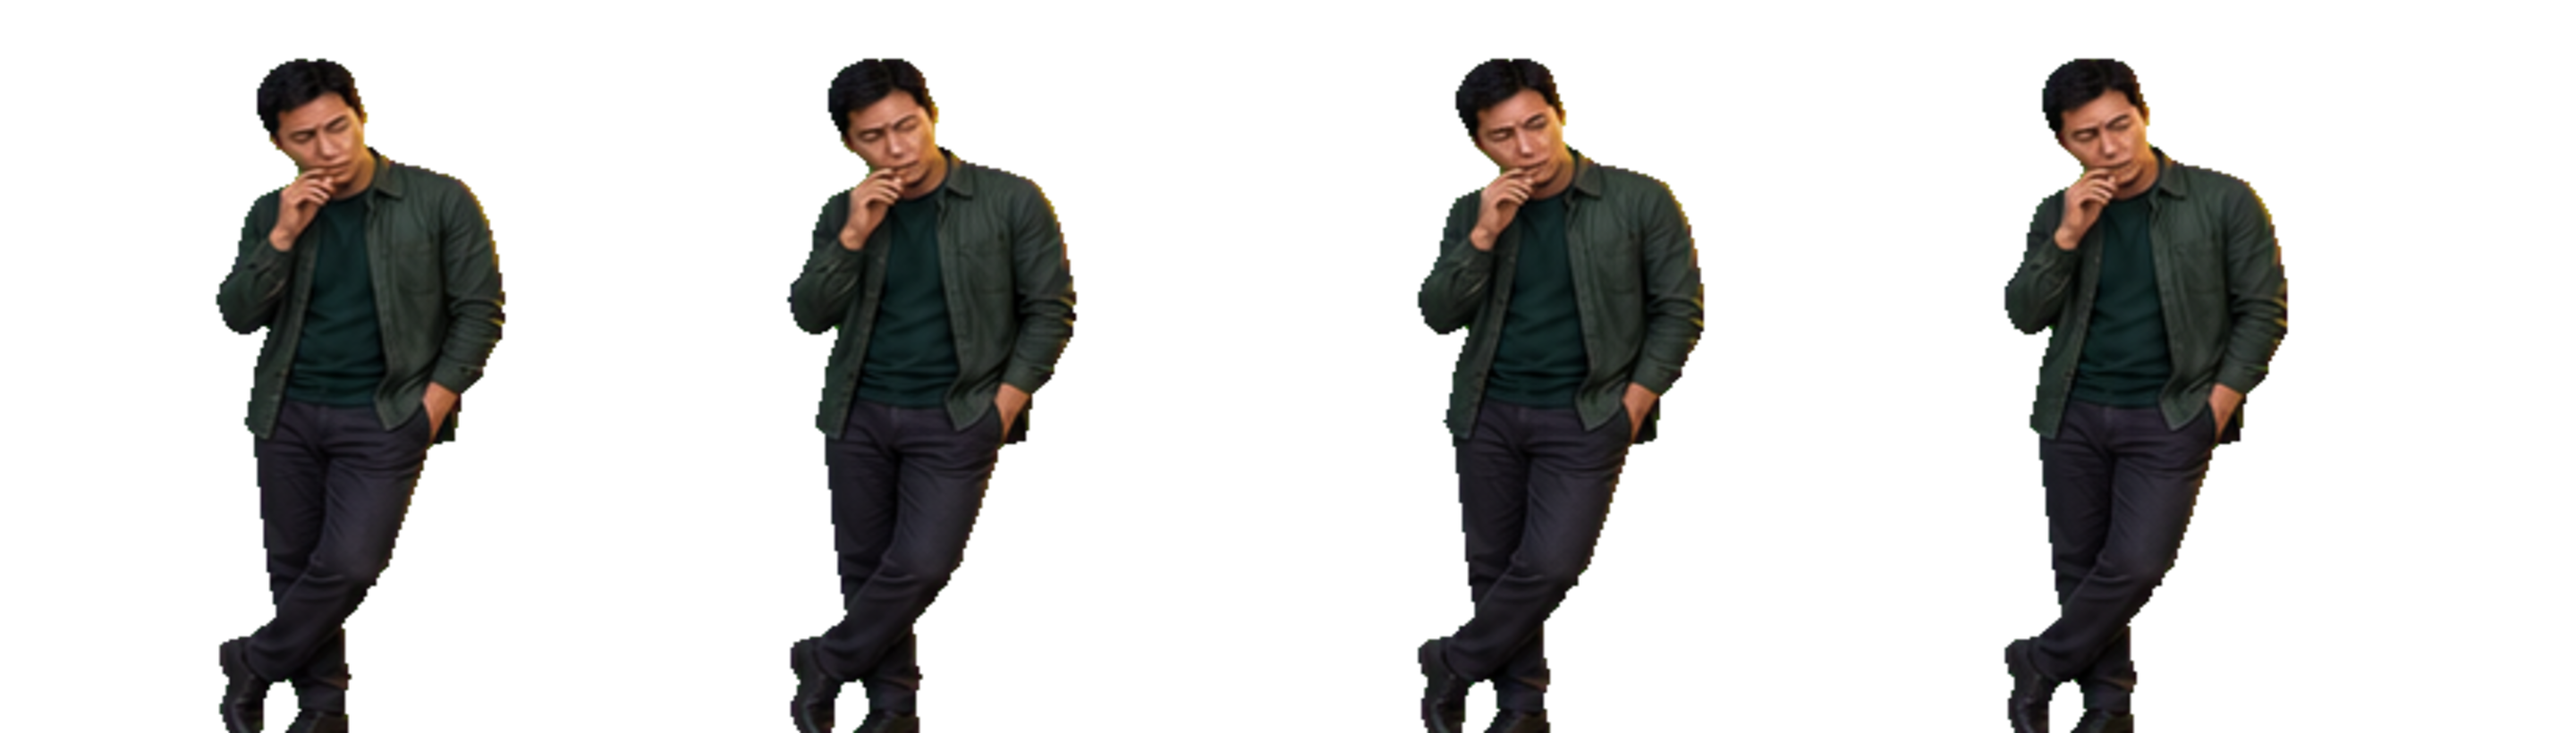
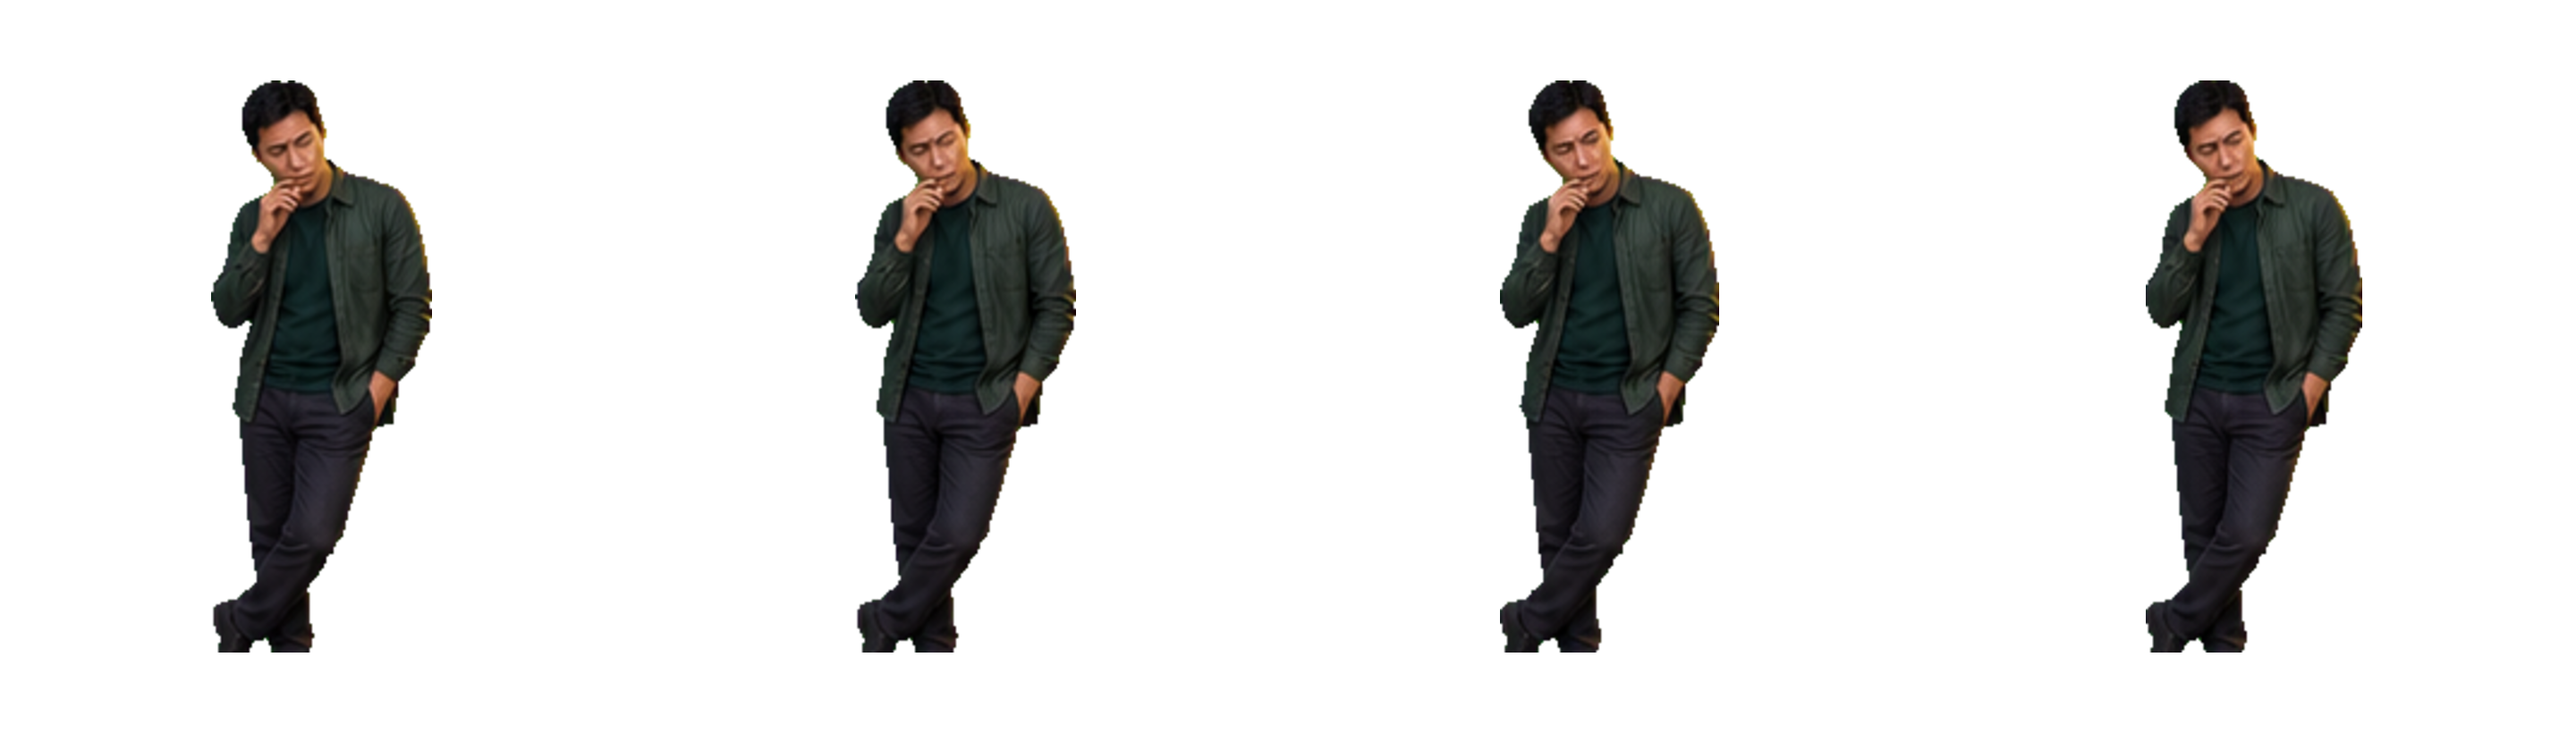
Fix rooftop protagonist clipping

diff --git a/src/game/scenes/rooftopScene.ts b/src/game/scenes/rooftopScene.ts
@@ -5,6 +5,8 @@ import { getOfficeProgress } from "../systems/progressSystem";
 
 const worldWidth = 1280;
 const worldHeight = 720;
+const protagonistX = 150;
+const protagonistY = 584;
 const characterStates = ["progress-0", "progress-1", "progress-2", "progress-3", "progress-4", "progress-5", "progress-6"] as const;
 type CharacterState = (typeof characterStates)[number];
 
@@ -320,9 +322,9 @@ export class RooftopScene extends Phaser.Scene {
     const state = this.getCharacterState();
     this.ensureCharacterAnimations();
     this.addCharacterContactShadows();
-    const sprite = this.add.sprite(160, 630, `trader-${state}`, 0).setDepth(24);
+    const sprite = this.add.sprite(protagonistX, protagonistY, `trader-${state}`, 0).setDepth(24);
     const progressIndex = this.getCharacterProgressIndex();
-    const stateScale = progressIndex === characterStates.length - 1 ? 0.44 : 0.46 * (1 + progressIndex * 0.004);
+    const stateScale = progressIndex === characterStates.length - 1 ? 0.34 : 0.35 * (1 + progressIndex * 0.004);
     sprite.setScale(stateScale);
     sprite.setOrigin(0.5, 0.98);
     sprite.setTint(0xa7a08a);
@@ -352,9 +354,9 @@ export class RooftopScene extends Phaser.Scene {
   }
 
   private addCharacterContactShadows(): void {
-    this.add.ellipse(160, 630, 116, 18, 0x03100c, 0.24).setDepth(23).setAngle(-7);
-    this.add.ellipse(118, 640, 54, 9, 0x03100c, 0.16).setDepth(23).setAngle(-12);
-    this.add.ellipse(202, 638, 50, 9, 0x03100c, 0.12).setDepth(23).setAngle(5);
+    this.add.ellipse(protagonistX, protagonistY, 84, 14, 0x03100c, 0.22).setDepth(23).setAngle(-7);
+    this.add.ellipse(protagonistX - 28, protagonistY + 8, 38, 7, 0x03100c, 0.14).setDepth(23).setAngle(-12);
+    this.add.ellipse(protagonistX + 32, protagonistY + 7, 36, 7, 0x03100c, 0.1).setDepth(23).setAngle(5);
   }
 
   private getCharacterState(): CharacterState {

diff --git a/TASK_STATE.md b/TASK_STATE.md
@@ -116,6 +116,8 @@ The second level is now wired as a playable Phaser flow and has been rebuilt wit
 - QA finding resolved: the protagonist is no longer the old small seated cutout; Playwright screenshots `artifacts/rooftop-standing-progress-0.png` and `artifacts/rooftop-standing-progress-6.png` verify the replacement standing state in both start and completion states.
 - QA finding resolved: the background adults no longer read as working on the rooftop; the v7 plate frames them as phone-checking, drinking, rumor-reading, and bragging.
 - QA finding resolved: the protagonist is now in the left corner smoking/cold-smiling instead of standing in the center foreground; Playwright screenshots `artifacts/rooftop-v7-progress-0.png` and `artifacts/rooftop-v7-progress-6.png` verify start and completion states.
+- QA finding resolved: the fourth rooftop protagonist state no longer contains adjacent-row contact-sheet residue, so the fourth clue no longer spawns floating legs or visual clipping; Playwright screenshot `artifacts/rooftop-v7-progress-4.png` verifies the repaired state in-scene.
+- QA finding resolved: the corner-smoking protagonist has been scaled down and moved inward from the front parapet so he reads as standing on the rooftop corner floor rather than stepping through the foreground wall.
 - Remaining QA risk: final user visual approval is still needed, but the runtime no longer relies on placeholder SVG/vector-generated rooftop assets.
 
 Second-level optimization plan:
@@ -165,3 +167,4 @@ Second-level optimization plan:
 - After increasing the second-level scene density and re-marking embedded hotspots, Playwright screenshots were captured at `artifacts/rooftop-density-progress-0.png`, `artifacts/rooftop-density-progress-3.png`, `artifacts/rooftop-density-progress-6.png`, `artifacts/rooftop-density-mobile-progress-0.png`, and `artifacts/rooftop-density-mobile-complete.png`.
 - After adding background people and correcting phone scale/placement, Playwright screenshots were captured at `artifacts/rooftop-people-progress-0.png`, `artifacts/rooftop-people-progress-3.png`, `artifacts/rooftop-people-progress-6.png`, `artifacts/rooftop-people-mobile-progress-0.png`, and `artifacts/rooftop-people-mobile-complete.png`.
 - After improving rooftop clue semantics and raising the hint limit, Playwright screenshots were captured at `artifacts/rooftop-v5-progress-0.png`, `artifacts/rooftop-v5-hint-sixth.png`, and `artifacts/rooftop-v5-progress-6.png`.
+- After fixing the v7 corner-smoking protagonist sheet and placement, Playwright screenshots were captured at `artifacts/rooftop-v7-progress-0.png`, `artifacts/rooftop-v7-progress-4.png`, and `artifacts/rooftop-v7-progress-6.png`.
